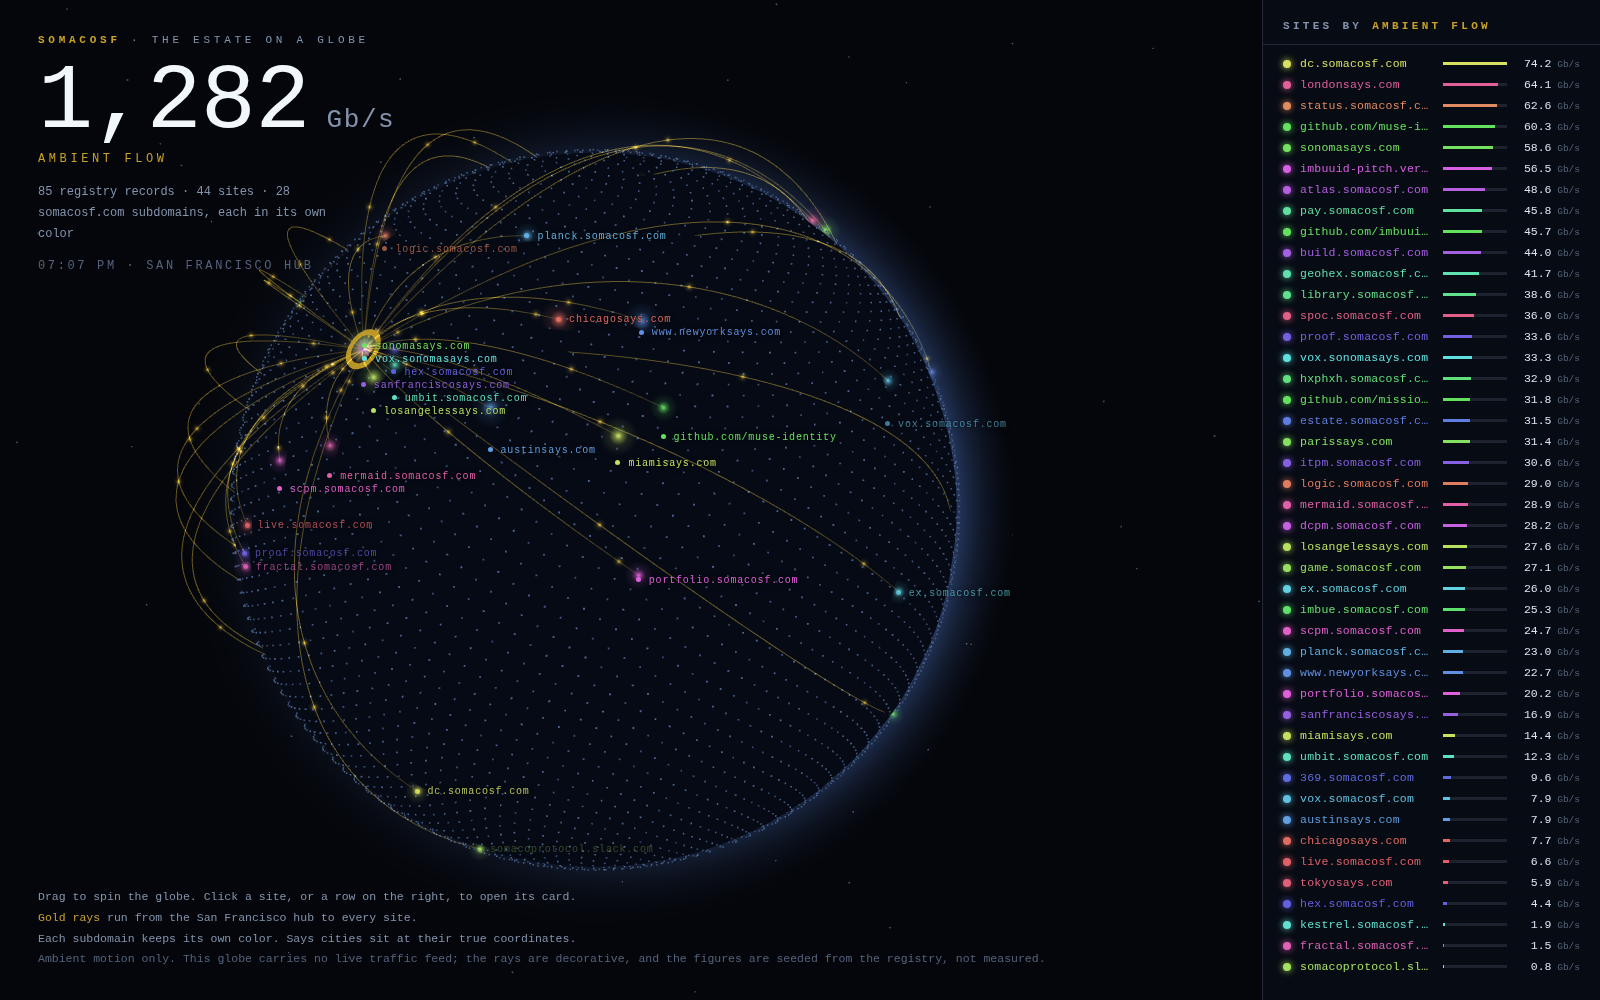
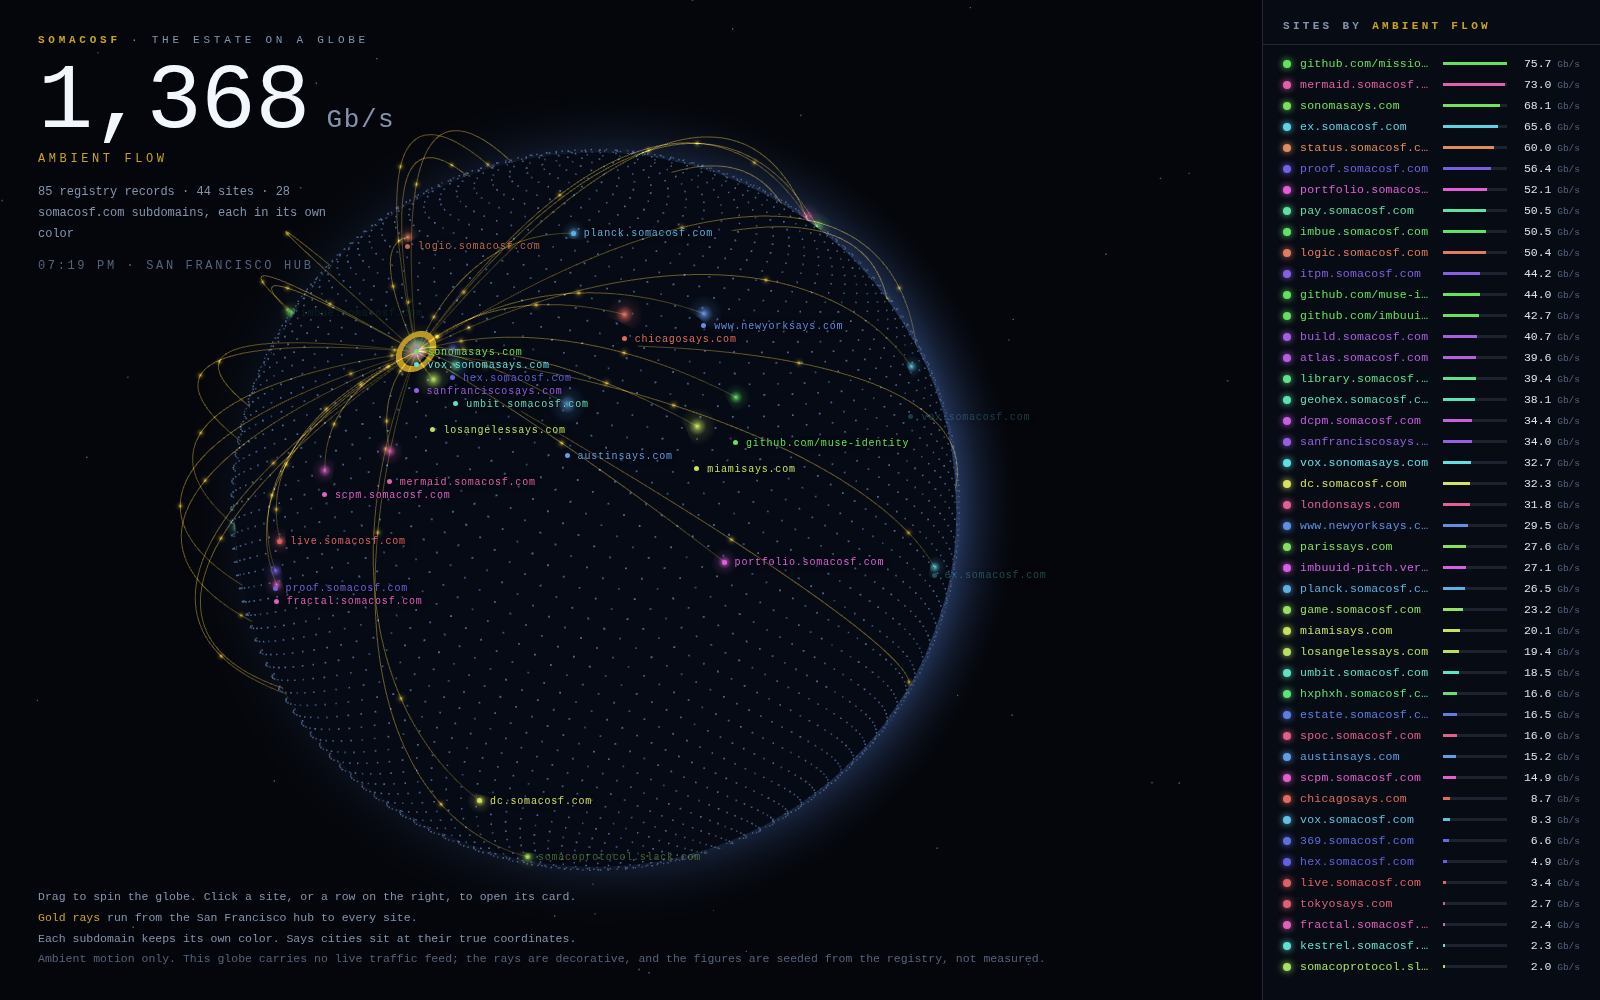
Estate Globe: mobile layout (faded bottom bar, site sheet, bottom-sheet card) and in-page pop panel; no link leaves the page

diff --git a/index.html b/index.html
@@ -74,6 +74,64 @@
   footer .gold{color:var(--gold)}
   #fallback{position:fixed;inset:0;display:none;place-items:center;text-align:center;color:var(--dim);
             font-size:14px;line-height:2;padding:30px}
+  #sheetClose{display:none}
+  .cr .lk{color:var(--ink);text-align:right;word-break:break-all;cursor:pointer}
+  .cr .lk:hover{text-decoration:underline}
+  #cardOpen{background:none;font-family:inherit;cursor:pointer}
+  #mbar{display:none}
+  /* in-page pop panel: the site opens inside the globe page, never away from it */
+  #pop{position:fixed;inset:5vh 5vw;z-index:9;background:var(--panel);border:1px solid var(--line);
+       border-top:2px solid var(--gold);backdrop-filter:blur(10px);display:flex;flex-direction:column}
+  #pop[hidden]{display:none}
+  #popHead{display:flex;align-items:center;gap:10px;padding:11px 16px;border-bottom:1px solid var(--line)}
+  #popHead .dot{width:9px;height:9px;flex:none}
+  #popName{font-size:14px;letter-spacing:.02em;white-space:nowrap}
+  #popUrlTxt{flex:1;font-size:11px;color:var(--faint);white-space:nowrap;overflow:hidden;text-overflow:ellipsis}
+  #popClose{background:none;border:none;color:var(--dim);font-size:18px;line-height:1;cursor:pointer;
+            font-family:inherit;padding:4px}
+  #popClose:hover{color:var(--ink)}
+  #popBody{position:relative;flex:1}
+  #popFrame{position:absolute;inset:0;width:100%;height:100%;border:0;background:#070b14}
+  #popStatus{position:absolute;top:14px;left:0;right:0;text-align:center;font-size:11px;
+             letter-spacing:.22em;color:var(--faint);pointer-events:none}
+  #popStatus[hidden]{display:none}
+  #popNote{position:absolute;left:0;right:0;bottom:0;padding:14px 18px;z-index:2;
+           background:rgba(8,12,22,.96);border-top:1px solid var(--line);
+           font-size:12px;line-height:1.75;color:var(--dim)}
+  #popNote[hidden]{display:none}
+  #popNote b{color:var(--ink);font-weight:400;word-break:break-all}
+  #popNoteClose{float:right;background:none;border:none;color:var(--dim);font-size:15px;
+                line-height:1;cursor:pointer;font-family:inherit;padding:0 0 4px 10px}
+  #popNoteClose:hover{color:var(--ink)}
+  @media (max-width:720px){
+    header{top:12px;left:14px;right:14px;display:flex;flex-wrap:wrap;align-items:baseline;gap:2px 12px}
+    .eyebrow{font-size:9px;letter-spacing:.24em}
+    #total{font-size:30px;margin-top:0}
+    #total small{font-size:13px}
+    .flowlabel{font-size:9.5px;letter-spacing:.24em;margin-top:0}
+    .sub{flex-basis:100%;margin-top:6px;font-size:10.5px;line-height:1.55;max-width:none}
+    #clock{display:none}
+    footer{display:none}
+    #mbar{display:flex;position:fixed;left:0;right:0;bottom:0;z-index:4;align-items:center;gap:12px;
+          padding:10px 14px calc(10px + env(safe-area-inset-bottom));
+          background:rgba(8,12,22,.55);border-top:1px solid var(--line);
+          backdrop-filter:blur(10px);opacity:.94}
+    .mbarFlow{flex:1;font-size:17px;color:#f2f6fd;font-variant-numeric:tabular-nums;white-space:nowrap}
+    .mbarFlow small{font-size:11px;color:var(--dim)}
+    .mbarAmb{margin-left:9px;font-size:9px;letter-spacing:.26em;color:var(--gold)}
+    #sitesBtn{font-family:inherit;font-size:11px;letter-spacing:.24em;color:var(--ink);
+              background:rgba(132,148,173,.10);border:1px solid var(--line);padding:9px 16px;cursor:pointer}
+    aside{display:none}
+    aside.open{display:flex;left:0;right:0;top:auto;bottom:0;width:100%;height:64%;z-index:7;
+               border-left:none;border-top:1px solid var(--line);background:rgba(8,12,22,.88)}
+    aside h2{display:flex;align-items:center;justify-content:space-between}
+    #sheetClose{display:block;background:none;border:none;color:var(--dim);font-size:18px;
+                line-height:1;cursor:pointer;font-family:inherit;padding:2px 4px}
+    #board{overflow-y:auto;touch-action:pan-y}
+    #card{left:0;right:0;top:auto;bottom:0;transform:none;width:100%;max-height:55%;
+          overflow-y:auto;padding:16px 18px calc(14px + env(safe-area-inset-bottom))}
+    #pop{inset:10px 8px}
+  }
 </style>
 </head>
 <body>
@@ -86,11 +144,30 @@
   <div class="cardName"><span class="dot" id="cardDot"></span><span id="cardName"></span></div>
   <div class="cardTitle" id="cardTitle"></div>
   <div class="cardRows">
-    <div class="cr"><span>URL</span><a id="cardUrl" target="_blank" rel="noopener"></a></div>
+    <div class="cr"><span>URL</span><span id="cardUrl" class="lk" title="View the site inside this page"></span></div>
     <div class="cr"><span>REGISTRY GRADE</span><b id="cardGrade"></b></div>
     <div class="cr"><span>AMBIENT FLOW</span><b id="cardFlow"></b></div>
   </div>
-  <a id="cardOpen" target="_blank" rel="noopener">Open site</a>
+  <button id="cardOpen" type="button">View site</button>
+</div>
+
+<div id="pop" hidden>
+  <div id="popHead">
+    <span class="dot" id="popDot"></span>
+    <span id="popName"></span>
+    <span id="popUrlTxt"></span>
+    <button id="popClose" type="button" aria-label="Close panel">×</button>
+  </div>
+  <div id="popBody">
+    <iframe id="popFrame" title="Site shown inside the Estate Globe page"></iframe>
+    <div id="popStatus">LOADING THE SITE INSIDE THIS PAGE</div>
+    <div id="popNote" hidden><button id="popNoteClose" type="button" aria-label="Hide note">×</button>Shown inside the globe page, which stays open behind this panel. If the frame stays blank or shows an error, the site does not allow embedding. Its address is <b id="popNoteUrl"></b>.</div>
+  </div>
+</div>
+
+<div id="mbar">
+  <div class="mbarFlow"><span id="mbarTotal">0</span><small> Gb/s</small><span class="mbarAmb">AMBIENT</span></div>
+  <button id="sitesBtn" type="button" aria-expanded="false">SITES</button>
 </div>
 
 <header>
@@ -102,7 +179,7 @@
 </header>
 
 <aside>
-  <h2>SITES BY <b>AMBIENT FLOW</b></h2>
+  <h2><span>SITES BY <b>AMBIENT FLOW</b></span><button id="sheetClose" type="button" aria-label="Close site list">×</button></h2>
   <div id="board"></div>
 </aside>
 
@@ -150,6 +227,7 @@ for (const n of nodes) {
   boardEl.appendChild(row);
   rows.set(n, { row, bar: row.querySelector('.bar i'), val: row.querySelector('.val') });
   row.addEventListener('click', () => {
+    closeSheet();
     if (estateAPI) estateAPI.flyTo(n); else openCard(n);
   });
 }
@@ -169,6 +247,7 @@ function flowOf(n, t) {
          (0.9 + 0.1 * Math.sin(t * 0.05 + n.phase * 2));
 }
 const totalEl = document.getElementById('total');
+const mbarTotalEl = document.getElementById('mbarTotal');
 setInterval(() => {
   const t = performance.now() / 1000;
   let total = 0, max = 0.001;
@@ -181,6 +260,7 @@ setInterval(() => {
     r.val.innerHTML = v.toFixed(1) + '<small> Gb/s</small>';
   });
   totalEl.innerHTML = total.toLocaleString('en-US', { maximumFractionDigits: 0 }) + '<small> Gb/s</small>';
+  mbarTotalEl.textContent = total.toLocaleString('en-US', { maximumFractionDigits: 0 });
   updateCardFlow();
 }, 600);
 
@@ -206,11 +286,9 @@ function openCard(n) {
   document.getElementById('cardTitle').textContent = n.title || '';
   const url = document.getElementById('cardUrl');
   url.textContent = n.url;
-  url.href = n.url;
   document.getElementById('cardGrade').innerHTML =
     gradeText(n.grade) + (n.grade ? ' <small>' + n.grade + '</small>' : '');
   const open = document.getElementById('cardOpen');
-  open.href = n.url;
   open.style.color = n.color;
   cardEl.hidden = false;
   for (const [node, r] of rows) r.row.classList.toggle('sel', node === n);
@@ -229,6 +307,75 @@ function updateCardFlow() {
   document.getElementById('cardFlow').innerHTML = v.toFixed(1) + ' <small>Gb/s · AMBIENT</small>';
 }
 document.getElementById('cardClose').addEventListener('click', closeCard);
+
+/* site list sheet: on a narrow screen the leaderboard is an overlay sheet
+   opened from the bottom bar, never a fixed column over the globe */
+const asideEl = document.querySelector('aside');
+const sitesBtn = document.getElementById('sitesBtn');
+function openSheet() {
+  asideEl.classList.add('open');
+  sitesBtn.setAttribute('aria-expanded', 'true');
+}
+function closeSheet() {
+  asideEl.classList.remove('open');
+  sitesBtn.setAttribute('aria-expanded', 'false');
+}
+sitesBtn.addEventListener('click', () => {
+  if (asideEl.classList.contains('open')) closeSheet(); else openSheet();
+});
+document.getElementById('sheetClose').addEventListener('click', closeSheet);
+
+/* in-page pop panel: the estate's pop pattern. The site itself is framed
+   inside the globe page; no link on this page navigates away from it.
+   A framed page cannot be inspected from here (a refused frame and a
+   loaded one look identical to the parent), so the note under the frame
+   always rides with the panel: it names the address and explains a
+   blank or error frame, and it can be dismissed once read. */
+let popNode = null;
+let popTimer = null;
+const popEl = document.getElementById('pop');
+const popFrame = document.getElementById('popFrame');
+const popStatus = document.getElementById('popStatus');
+const popNote = document.getElementById('popNote');
+function openPop(n) {
+  popNode = n;
+  closeSheet();
+  const dot = document.getElementById('popDot');
+  dot.style.color = n.color;
+  dot.style.background = n.color;
+  const nm = document.getElementById('popName');
+  nm.textContent = n.board;
+  nm.style.color = n.color;
+  document.getElementById('popUrlTxt').textContent = n.url;
+  document.getElementById('popNoteUrl').textContent = n.url;
+  popNote.hidden = false;
+  popStatus.hidden = false;
+  popEl.hidden = false;
+  popFrame.src = n.url;
+  clearTimeout(popTimer);
+  popTimer = setTimeout(() => { if (popNode === n) popStatus.hidden = true; }, 12000);
+}
+function closePop() {
+  popNode = null;
+  clearTimeout(popTimer);
+  popEl.hidden = true;
+  popFrame.src = 'about:blank';
+}
+popFrame.addEventListener('load', () => {
+  if (!popNode) return;
+  clearTimeout(popTimer);
+  popStatus.hidden = true;
+});
+document.getElementById('popClose').addEventListener('click', closePop);
+document.getElementById('popNoteClose').addEventListener('click', () => { popNote.hidden = true; });
+document.getElementById('cardOpen').addEventListener('click', () => { if (cardNode) openPop(cardNode); });
+document.getElementById('cardUrl').addEventListener('click', () => { if (cardNode) openPop(cardNode); });
+addEventListener('keydown', e => {
+  if (e.key !== 'Escape') return;
+  if (!popEl.hidden) closePop();
+  else if (cardNode) closeCard();
+  else closeSheet();
+});
 
 if (!THREE) {
   document.getElementById('fallback').style.display = 'grid';
@@ -408,6 +555,9 @@ function init(THREE) {
   function refreshScales() { for (const n of nodes) if (n._sprite) setSpriteScale(n); }
   function showSelection(n) {
     selectedNode = n;
+    /* on a phone the card is a bottom sheet: lift the globe so the
+       selected node stays in the open sky above it where possible */
+    globe.position.y = (innerWidth <= 720 && n) ? 0.55 : 0;
     if (n) {
       selRing.position.copy(n._v).multiplyScalar(1.004);
       selRing.quaternion.setFromUnitVectors(new THREE.Vector3(0, 0, 1),
@@ -559,7 +709,15 @@ function init(THREE) {
 
   function resize() {
     renderer.setSize(innerWidth, innerHeight);
-    camera.aspect = innerWidth / innerHeight;
+    const aspect = innerWidth / innerHeight;
+    camera.aspect = aspect;
+    /* narrow screens: the globe goes full bleed and centred, and the
+       camera steps back until the whole earth fits the width. Desktop
+       geometry is untouched: the step-back never engages there. */
+    const mobile = innerWidth <= 720;
+    globe.position.x = mobile ? 0 : -0.85;
+    const zNeed = 2.0 / (Math.tan(THREE.MathUtils.degToRad(camera.fov / 2)) * aspect);
+    camera.position.z = Math.max(5.8, Math.min(zNeed, 16));
     camera.updateProjectionMatrix();
   }
   addEventListener('resize', resize);

diff --git a/README.md b/README.md
@@ -1,6 +1,6 @@
 <!--
 Ghost Catalog: SOM-DOC-10894-v1.0.0
-Stamp requested from Prime 2026-11-21. Do not cite a number until assigned.
+Stamp assigned by Prime 2026-11-21.
 -->
 
 # Estate Globe
@@ -19,6 +19,16 @@ Somacomarchy.
 ![Estate Globe at 1600px](estate-globe-1600.png)
 
 ![Detail card open for itpm.somacosf.com](estate-globe-card-1600.png)
+
+![Pop panel open on desktop](estate-globe-pop-1600.png)
+
+![Globe on a phone, faded bottom bar](estate-globe-mobile-390.png)
+
+![Site list sheet open on a phone](estate-globe-mobile-sheet-390.png)
+
+![Detail card as a bottom sheet on a phone](estate-globe-mobile-card-390.png)
+
+![Pop panel on a phone, a site that refuses embedding](estate-globe-pop-390.png)
 
 ## The picture
 
@@ -44,13 +54,44 @@ becomes a browser for the estate.
   three idle seconds. One finger does the same on touch screens.
 * Hover a node to see its name. Click or tap a node and a detail card
   opens: the site name in its own color, its title, its URL, the
-  registry grade recorded for it, its ambient flow figure, and an
-  Open site link. A gold ring marks the selected node on the globe.
-  Click empty space or the card's close button to dismiss it.
+  registry grade recorded for it, and its ambient flow figure. A gold
+  ring marks the selected node on the globe. Click empty space or the
+  card's close button to dismiss it.
 * Click a row in the leaderboard and the globe flies to that site and
   opens its card.
 * Deep link: `?open=<host>` (for example `?open=itpm.somacosf.com`)
   loads the page already turned to that site with its card open.
+
+### Nothing leaves the page
+
+No link on the globe takes the reader away from it. The card's URL and
+its View site button both open the estate's pop panel inside the page:
+a framed view of the site itself, with the site name and address in the
+panel header and a close control. A note under the frame names the
+address and explains the one failure mode: a site that refuses
+embedding shows a blank or error frame instead. Some estate sites do
+refuse (estate.somacosf.com sends `X-Frame-Options: DENY` and a CSP
+`frame-ancestors 'none'`), and for those the panel and its note are
+what the reader gets. The globe stays open behind the panel either
+way.
+
+### On a phone
+
+At 720px wide and below, the layout changes around the same globe:
+
+* The leaderboard rail leaves its fixed column. A slim translucent bar
+  docks at the bottom with the headline total and a SITES button, and
+  the globe runs full bleed behind everything, centred, with the
+  camera stepped back until the whole earth fits the width.
+* Tapping SITES opens the full leaderboard as a translucent overlay
+  sheet (scrollable, with its own close button). Tapping a row closes
+  the sheet, flies the globe, and opens the card, as on desktop.
+* The detail card becomes a bottom sheet: full width, at most 55% of
+  the screen height, and the globe lifts so the selected node stays in
+  the open sky above it where possible.
+* The header compacts to the title and total on one line, with the
+  AMBIENT label kept. The pop panel fills most of the screen, still
+  inside the page.
 
 ## Data, honestly
 
@@ -140,7 +181,8 @@ flowchart LR
 
 * `index.html` is the whole experience: scene, labels, leaderboard, and
   the interaction layer (drag rotation with inertia, node picking,
-  detail card, fly-to, and the `?open=` deep link).
+  detail card, fly-to, the `?open=` deep link, the in-page pop panel,
+  and the phone layout with its bottom bar and site sheet).
 * `assets/nodes.js` is generated data. Regenerate it after the registry
   changes with `python3 build_data.py` (edit the registry path at the top
   of the script if your estate tree lives elsewhere).
@@ -167,6 +209,26 @@ flowchart LR
   shipped speed; a node click opens the matching card; an empty-space
   click dismisses it; a leaderboard row click flies to the site and
   opens its card. No page errors were logged.
+* Mobile renders at 390 by 844 were read back in three states: the
+  default view (compact header, full bleed globe, faded bottom bar
+  with the total and SITES), the leaderboard open as an overlay sheet,
+  and the detail card open as a bottom sheet with the selected node
+  ringed in gold above it. A scripted touch drag moved 16 of 24
+  tracked labels by more than 40px, against a couple of pixels of
+  auto-rotation drift in the same window, so drag rotation is verified
+  on touch as well as mouse. The desktop renders were re-shot after
+  the change and match the shipped layout.
+* The pop panel was exercised both ways. The refusal state is real and
+  screenshotted on a phone: itpm.somacosf.com in a frame, the panel
+  header and the note strip naming the address. The embedded state is
+  screenshotted on desktop with the panel framing a local copy of this
+  page, its address visible in the panel header; the proof drives the
+  shipped View site path with one node's address retargeted, because
+  this build machine's headless Chrome cannot traverse the egress
+  proxy to live subframes. Response headers were checked with curl
+  instead: estate.somacosf.com refuses framing outright, while
+  itpm.somacosf.com and vox.sonomasays.com send no framing headers
+  and will embed in a real browser.
 * The live deployment serves byte-identical files.
 * UNVERIFIED: the idle trigger on a real Omarchy or Somacomarchy install.
   No such machine was available when this was built, so the hypridle
